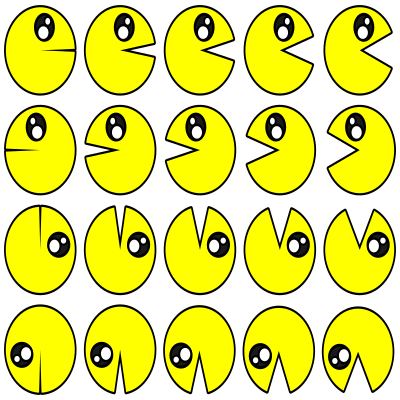
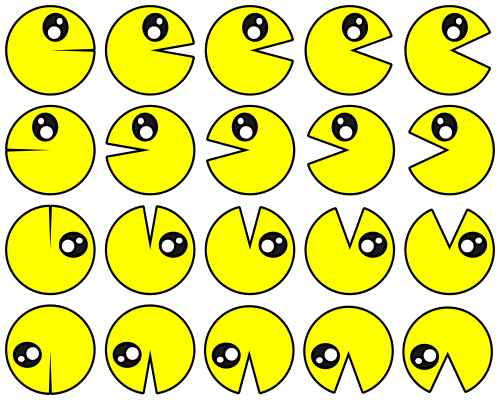
Mejora sprite pacman

diff --git a/esfera.cpp b/esfera.cpp
@@ -33,7 +33,7 @@ esfera::esfera(int x, int y)
 
     posy=y;
 
-    r=10;
+    r=45;
 
     setPos(posx,posy);
 
@@ -79,28 +79,28 @@ void esfera::MoveRight()
 void esfera::MoveLeft()
 {
     this->posx-=velocidad;
-    filas=89;
+    filas=99;
     setPos(posx,posy);
 }
 
 void esfera::MoveUp()
 {
     this->posy-=velocidad;
-    filas=177;
+    filas=198;
     setPos(posx,posy);
 }
 
 void esfera::MoveDown()
 {
     this->posy+=velocidad;
-    filas=264;
+    filas=297;
     setPos(posx,posy);
 }
 
 void esfera::actualizacion()
 {
-    columnas+=90;
-    if(columnas>=470){
+    columnas+=100;
+    if(columnas>=390){
         columnas=0;
     }
 
